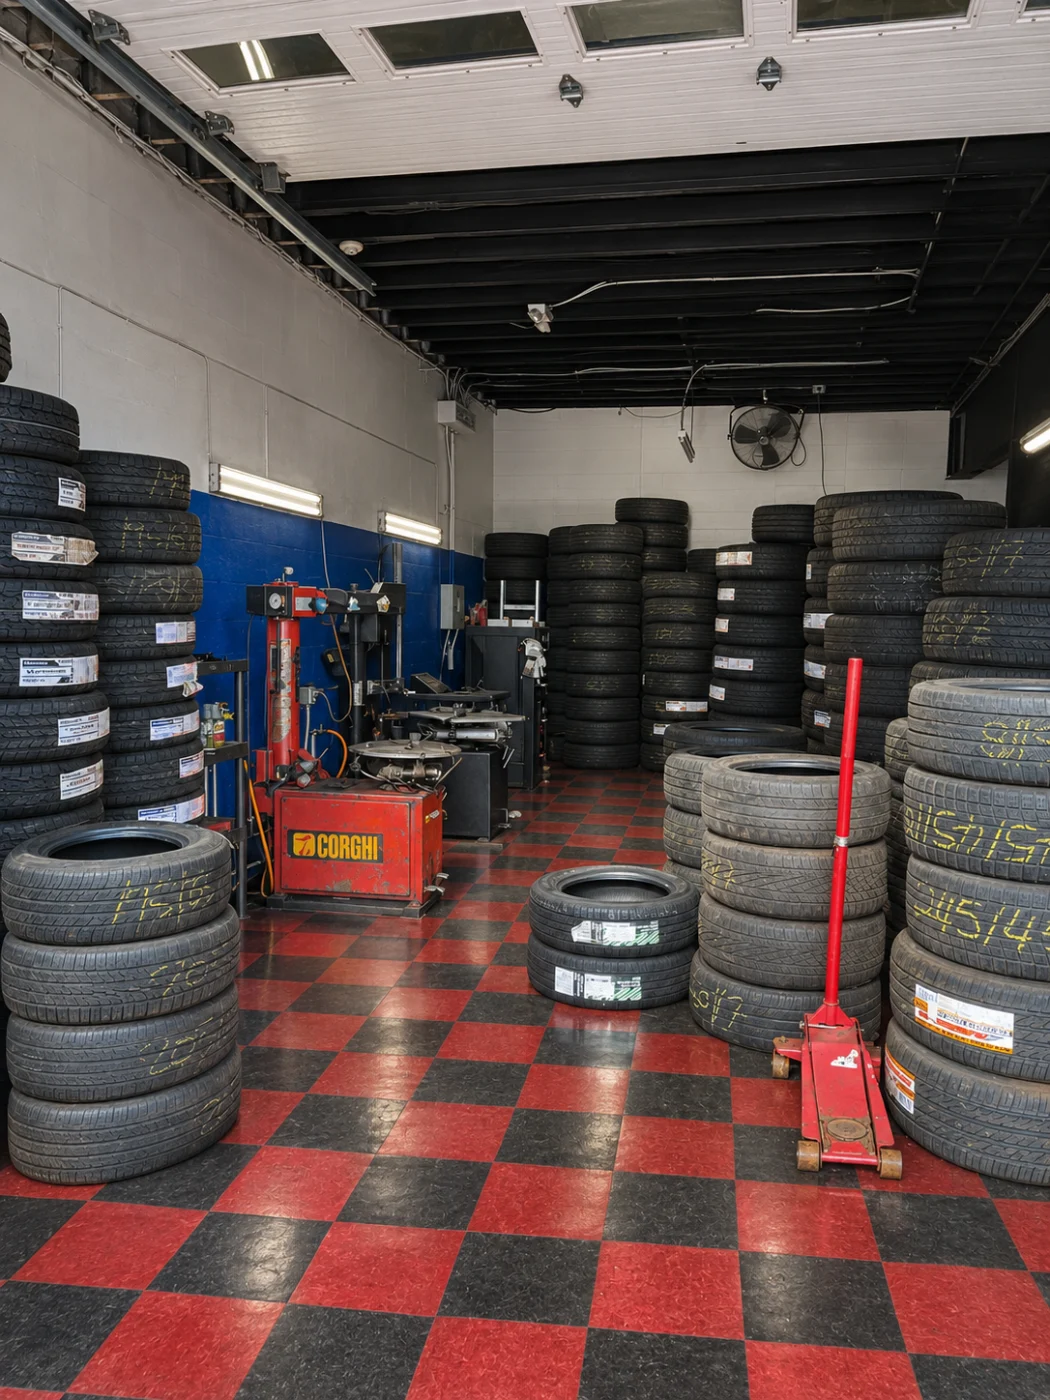
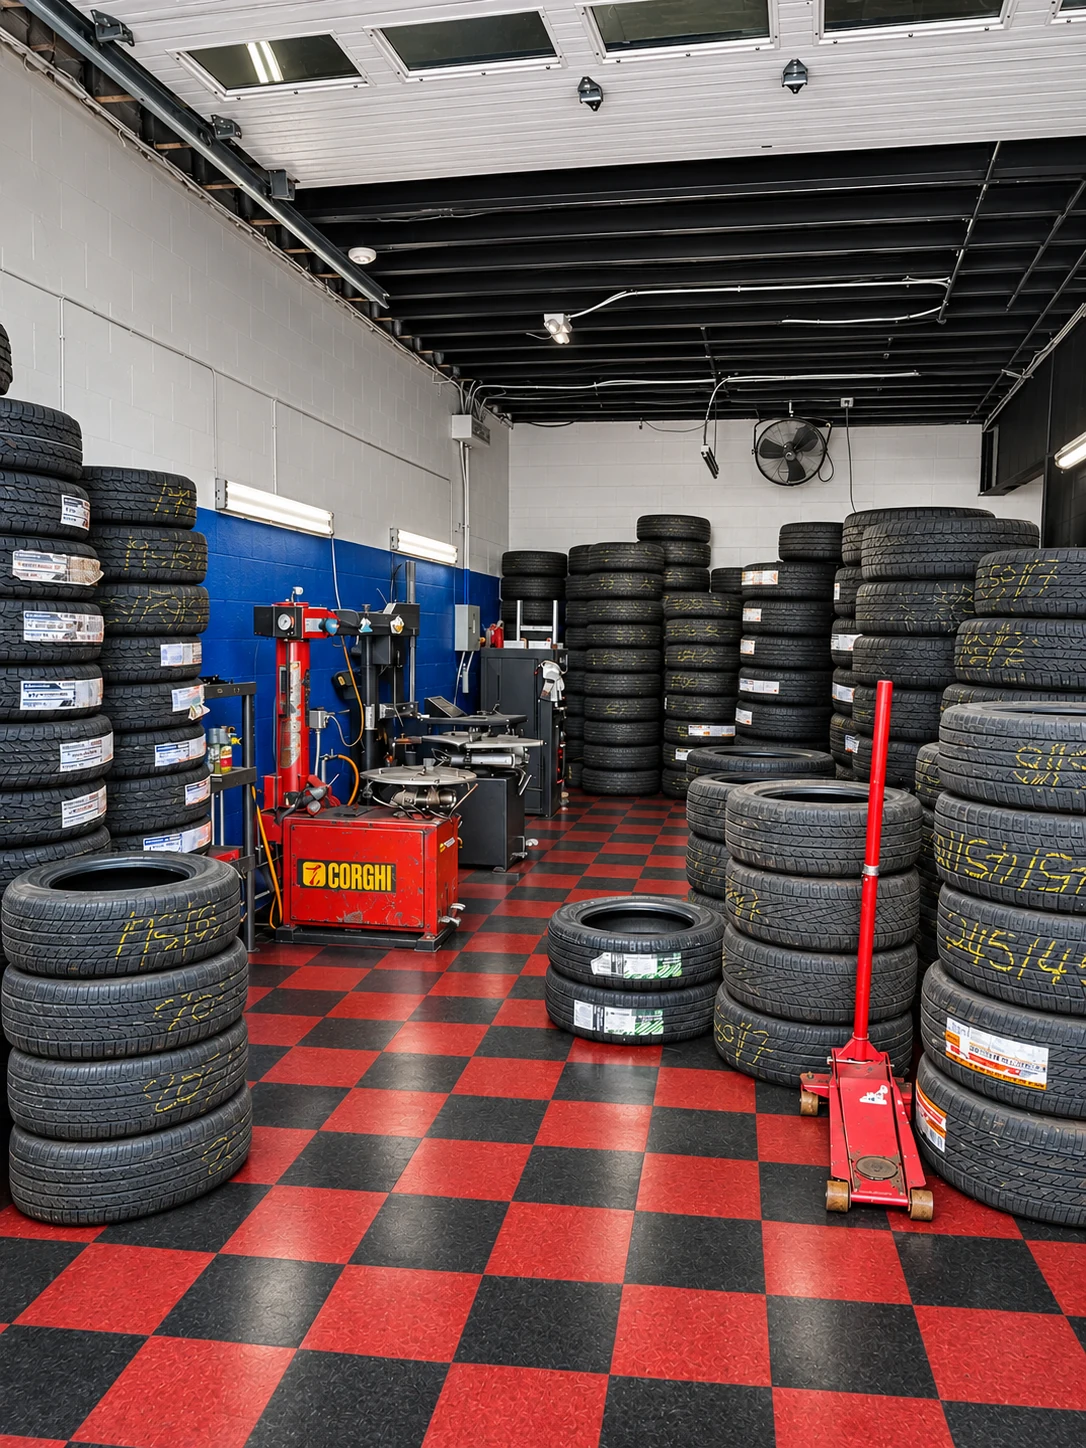
Replace four shop photos with enhanced versions and transparent owner portrait

diff --git a/index.html b/index.html
@@ -9,7 +9,7 @@
   <link rel="icon" type="image/png" sizes="64x64" href="assets/tire-favicon.png">
   <script src="navigation.js" defer></script>
   <script src="scroll-effects.js?v=4647f7f4f4" defer></script>
-  <link rel="stylesheet" href="styles.css?v=42cb6e6c9e">
+  <link rel="stylesheet" href="styles.css?v=17073b71e1">
   <script src="app.js?v=a1a272b4f3" defer></script>
 </head><body id="top"><a class="skip" href="#main">Skip to content</a>
 <header class="site-header">
@@ -39,7 +39,7 @@
   </div>
 </header>
 <main id="main">
-<section class="hero"><div class="hero-copy"><h1>New &amp; <br>used tires</h1><p>Tire repairs, mounting and balancing on Main Street.</p><a class="button" href="#services">View services &amp; prices</a></div><img class="building" fetchpriority="high" src="assets/photos/storefront.webp?v=518e2a41ad" alt="Open service bays at Munroe’s Tire Service, 3430 Main Street in Hartford, Connecticut"></section>
+<section class="hero"><div class="hero-copy"><h1>New &amp; <br>used tires</h1><p>Tire repairs, mounting and balancing on Main Street.</p><a class="button" href="#services">View services &amp; prices</a></div><img class="building" fetchpriority="high" src="assets/photos/storefront.webp?v=3e00924c19" alt="Open service bays at Munroe’s Tire Service, 3430 Main Street in Hartford, Connecticut"></section>
 <section class="wrap visit" id="visit"><div><h2>Visit Munroe’s</h2><address><a href="https://www.google.com/maps/dir/?api=1&amp;destination=3430+Main+Street+Hartford+CT+06120">3430 Main Street<br>Hartford, CT 06120</a><a href="tel:+18602460886">(860) 246-0886</a></address><a class="button" href="https://www.google.com/maps/dir/?api=1&amp;destination=3430+Main+Street+Hartford+CT+06120">Get directions</a></div><table><caption>Opening hours</caption><tbody><tr><th scope="row">Monday</th><td>8 AM – 6 PM</td></tr>
 <tr><th scope="row">Tuesday</th><td>8 AM – 6 PM</td></tr>
 <tr><th scope="row">Wednesday</th><td>8 AM – 6 PM</td></tr>
@@ -77,7 +77,7 @@
       </table></div></div></section>
 <section id="owner" class="owner" aria-labelledby="owner-title">
   <div class="wrap owner-inner">
-    <img loading="lazy" src="assets/photos/owner-portrait.webp" alt="The owner of Munroe’s Tire Service wearing a cap, sunglasses and work gloves">
+    <img loading="lazy" src="assets/photos/owner-portrait.webp?v=7693806bbb" alt="The owner of Munroe’s Tire Service wearing a cap, sunglasses and work gloves">
     <div class="owner-story">
       <h2 id="owner-title">Meet the owner</h2>
       <p>I spent 18 years in the tire business before I moved Munroe’s to 3430 Main Street in Hartford. If it’s your first time coming by, look for the yellow sign above the bay. That’s us.</p>
@@ -96,11 +96,11 @@
   </div>
   <div class="gallery">
     <figure>
-      <a href="assets/photos/roadside-sign.webp?v=8ac0a8f356" aria-label="View the full-size Main Street sign"><img class="shop-sign" loading="lazy" src="assets/photos/roadside-sign.webp?v=8ac0a8f356" width="1050" height="1400" alt="Munroe’s roadside sign above yellow banners for used tires and free air pressure checks"></a>
+      <a href="assets/photos/roadside-sign.webp?v=6587c96173" aria-label="View the full-size Main Street sign"><img loading="lazy" src="assets/photos/roadside-sign.webp?v=6587c96173" width="1086" height="1448" alt="Munroe’s roadside sign above yellow banners for used tires and free air pressure checks"></a>
       <figcaption>Our sign on Main Street</figcaption>
     </figure>
     <figure>
-      <img loading="lazy" src="assets/photos/service-bay.webp" width="1050" height="1400" alt="Tire stacks, a mounting machine and a red floor jack inside Munroe’s service bay">
+      <img loading="lazy" src="assets/photos/service-bay.webp?v=438674b47d" width="1086" height="1448" alt="Tire stacks, a mounting machine and a red floor jack inside Munroe’s service bay">
       <figcaption>Inside the tire bay</figcaption>
     </figure>
   </div>

diff --git a/styles.css b/styles.css
@@ -95,7 +95,6 @@ td { text-align: right; white-space: nowrap; font-variant-numeric: tabular-nums;
 .gallery { display: grid; grid-template-columns: repeat(2, minmax(0, 1fr)); gap: 16px; }
 .gallery img { width: 100%; height: auto; display: block; border-radius: 12px; }
 .gallery a { display: block; border-radius: 12px; }
-.shop-sign { filter: contrast(1.08) saturate(1.04); }
 @media (max-width: 900px) { .shop-visit { grid-template-columns: 1fr; } }
 
 figcaption { font-size: 1.4rem; color: var(--navy); margin-top: 8px; }

diff --git a/accessibility.html b/accessibility.html
@@ -9,7 +9,7 @@
   <link rel="icon" type="image/png" sizes="64x64" href="assets/tire-favicon.png">
   <script src="navigation.js" defer></script>
   <script src="scroll-effects.js?v=4647f7f4f4" defer></script>
-  <link rel="stylesheet" href="styles.css?v=42cb6e6c9e">
+  <link rel="stylesheet" href="styles.css?v=17073b71e1">
 </head><body><header class="site-header">
   <div class="wrap bar">
     <a class="logo" href="index.html" aria-label="Munroe’s Tire Service home">

diff --git a/ftc-disclosure.html b/ftc-disclosure.html
@@ -9,7 +9,7 @@
   <link rel="icon" type="image/png" sizes="64x64" href="assets/tire-favicon.png">
   <script src="navigation.js" defer></script>
   <script src="scroll-effects.js?v=4647f7f4f4" defer></script>
-  <link rel="stylesheet" href="styles.css?v=42cb6e6c9e">
+  <link rel="stylesheet" href="styles.css?v=17073b71e1">
 </head><body><header class="site-header">
   <div class="wrap bar">
     <a class="logo" href="index.html" aria-label="Munroe’s Tire Service home">

diff --git a/privacy.html b/privacy.html
@@ -9,7 +9,7 @@
   <link rel="icon" type="image/png" sizes="64x64" href="assets/tire-favicon.png">
   <script src="navigation.js" defer></script>
   <script src="scroll-effects.js?v=4647f7f4f4" defer></script>
-  <link rel="stylesheet" href="styles.css?v=42cb6e6c9e">
+  <link rel="stylesheet" href="styles.css?v=17073b71e1">
 </head><body><header class="site-header">
   <div class="wrap bar">
     <a class="logo" href="index.html" aria-label="Munroe’s Tire Service home">

diff --git a/terms.html b/terms.html
@@ -9,7 +9,7 @@
   <link rel="icon" type="image/png" sizes="64x64" href="assets/tire-favicon.png">
   <script src="navigation.js" defer></script>
   <script src="scroll-effects.js?v=4647f7f4f4" defer></script>
-  <link rel="stylesheet" href="styles.css?v=42cb6e6c9e">
+  <link rel="stylesheet" href="styles.css?v=17073b71e1">
 </head><body><header class="site-header">
   <div class="wrap bar">
     <a class="logo" href="index.html" aria-label="Munroe’s Tire Service home">
